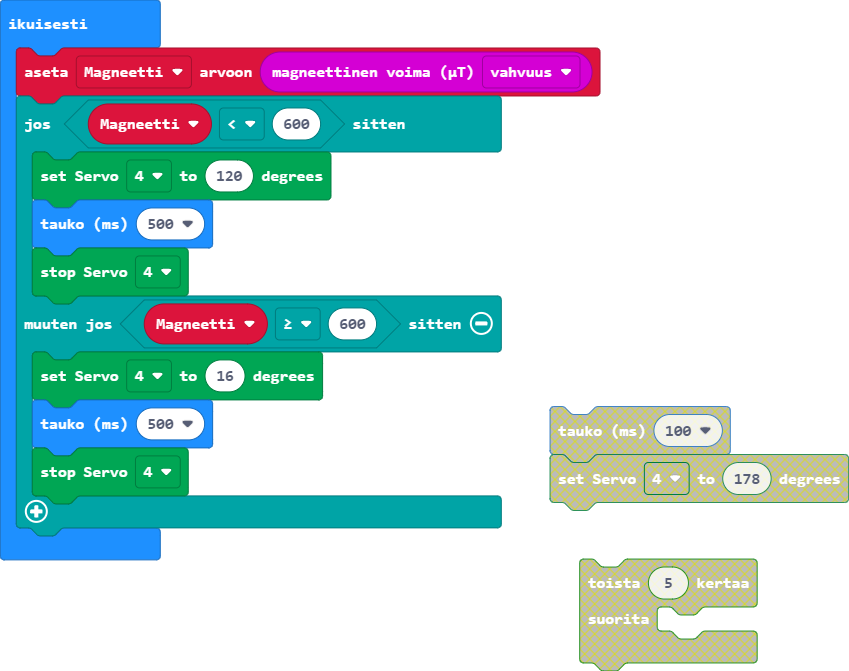
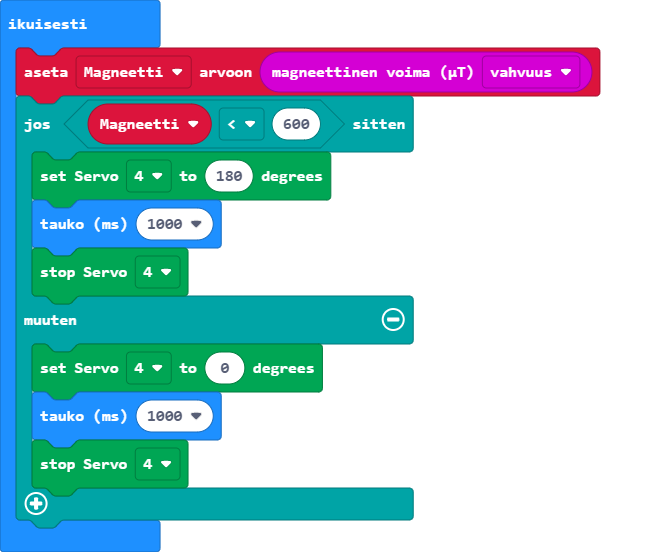
Päivitys main.blocks, main.ts

diff --git a/main.ts b/main.ts
@@ -2,12 +2,12 @@ let Magneetti = 0
 basic.forever(function () {
     Magneetti = input.magneticForce(Dimension.Strength)
     if (Magneetti < 600) {
-        Kitronik_Robotics_Board.servoWrite(Kitronik_Robotics_Board.Servos.Servo4, 120)
-        basic.pause(500)
+        Kitronik_Robotics_Board.servoWrite(Kitronik_Robotics_Board.Servos.Servo4, 180)
+        basic.pause(1000)
         Kitronik_Robotics_Board.servoStop(Kitronik_Robotics_Board.Servos.Servo4)
-    } else if (Magneetti >= 600) {
-        Kitronik_Robotics_Board.servoWrite(Kitronik_Robotics_Board.Servos.Servo4, 16)
-        basic.pause(500)
+    } else {
+        Kitronik_Robotics_Board.servoWrite(Kitronik_Robotics_Board.Servos.Servo4, 0)
+        basic.pause(1000)
         Kitronik_Robotics_Board.servoStop(Kitronik_Robotics_Board.Servos.Servo4)
     }
 })
